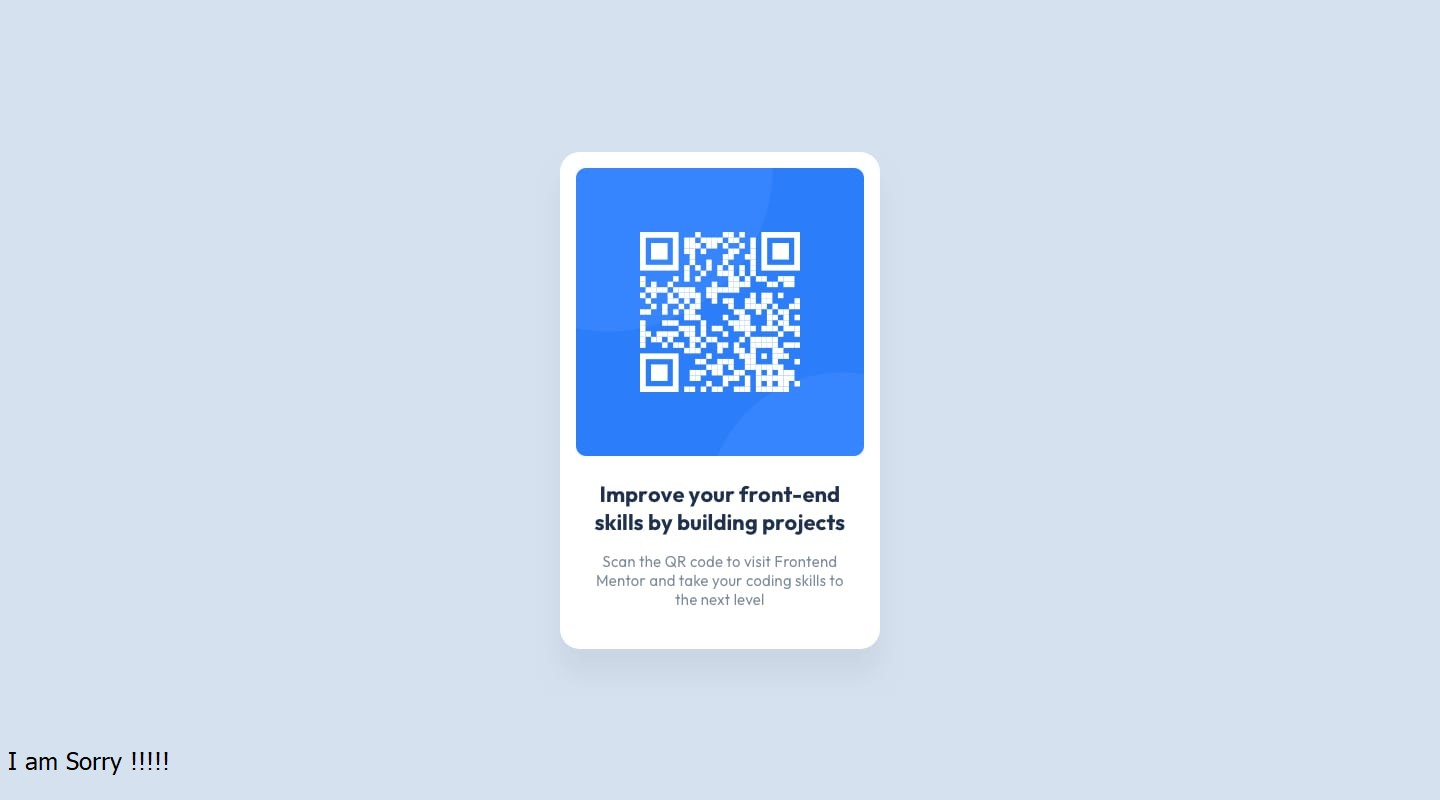
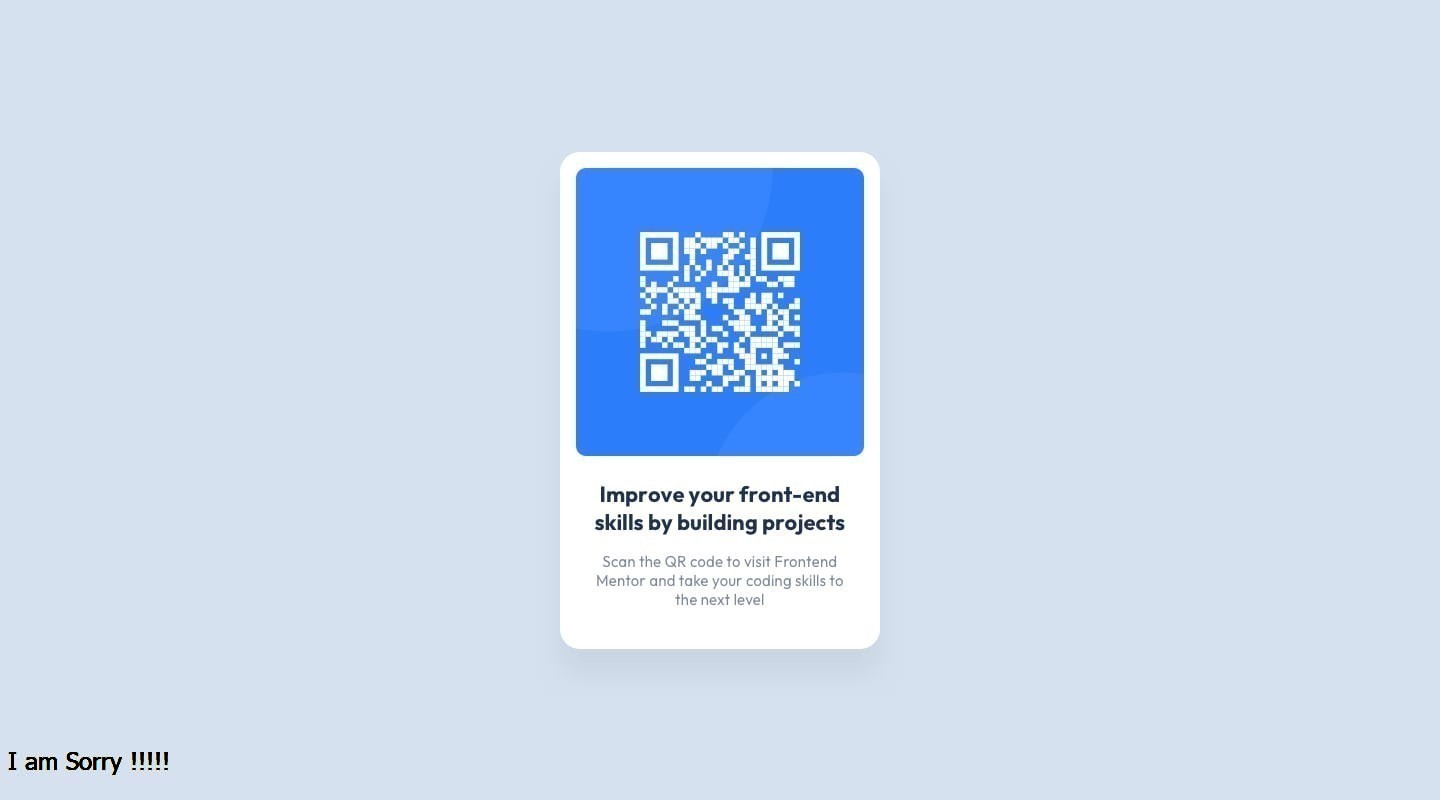
bug fixed

diff --git a/index.html b/index.html
@@ -14,15 +14,15 @@
 </head>
 <body>
   <div class="container w-100 h-100">
-    <div class="row h-100">
+    <div class="row h-100 w-100 text-center">
       <!-- <div class="col-12 col-lg-6"> -->
-        <div class="d-flex justify-content-center">
-        <div class="card w-25 bg-light">
-              <img src="images/image-qr-code.png" class="img rounded p-1" alt="qr-code">
-              <h6 class="card-title text-center"><b>
+        <div class="parentCard d-flex justify-content-center m-4">
+        <div class="card w-25 bg-light p-1 shadow-lg border rounded-4" >
+              <img src="images/image-qr-code.png" class="img rounded-4 p-1" alt="qr-code">
+              <h6 class="card-title text-center p-1"><b>
                 Improve your front-end skills by building projects
               </h6></b>
-              <p class="card-text text-center small">Scan the QR code to visit Frontend Mentor and take your coding skills to the next level</p>
+              <small class="card-text text-center small text-black-50 p-1">Scan the QR code to visit Frontend Mentor and take your coding skills to the next level</small>
             </div>
             <h2 class="d-none">
               Challenge by <a href="https://www.frontendmentor.io?ref=challenge" target="_blank">Frontend Mentor</a>. 

diff --git a/style.css b/style.css
@@ -10,3 +10,10 @@ body {
 .h2 {
   display: none;
 }
+.card {
+  min-width: 12rem;
+}
+
+.parentCard {
+  background-color: #d5e1ef;
+}
